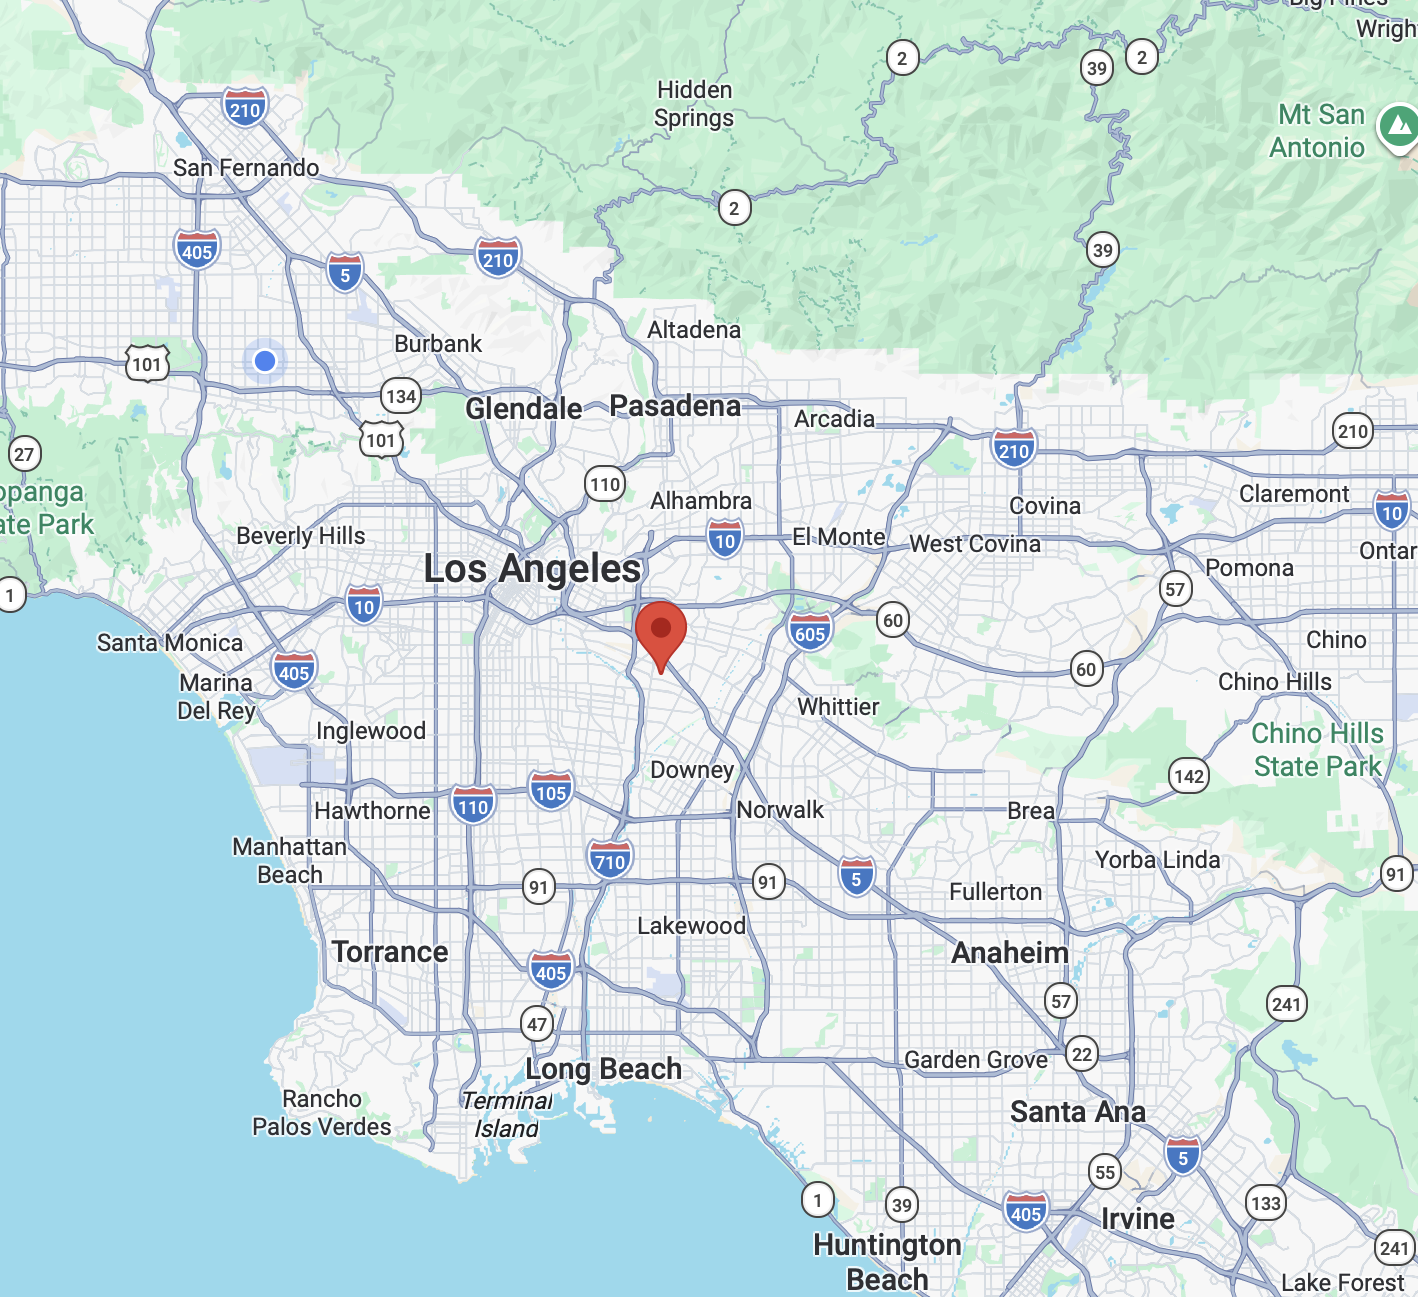
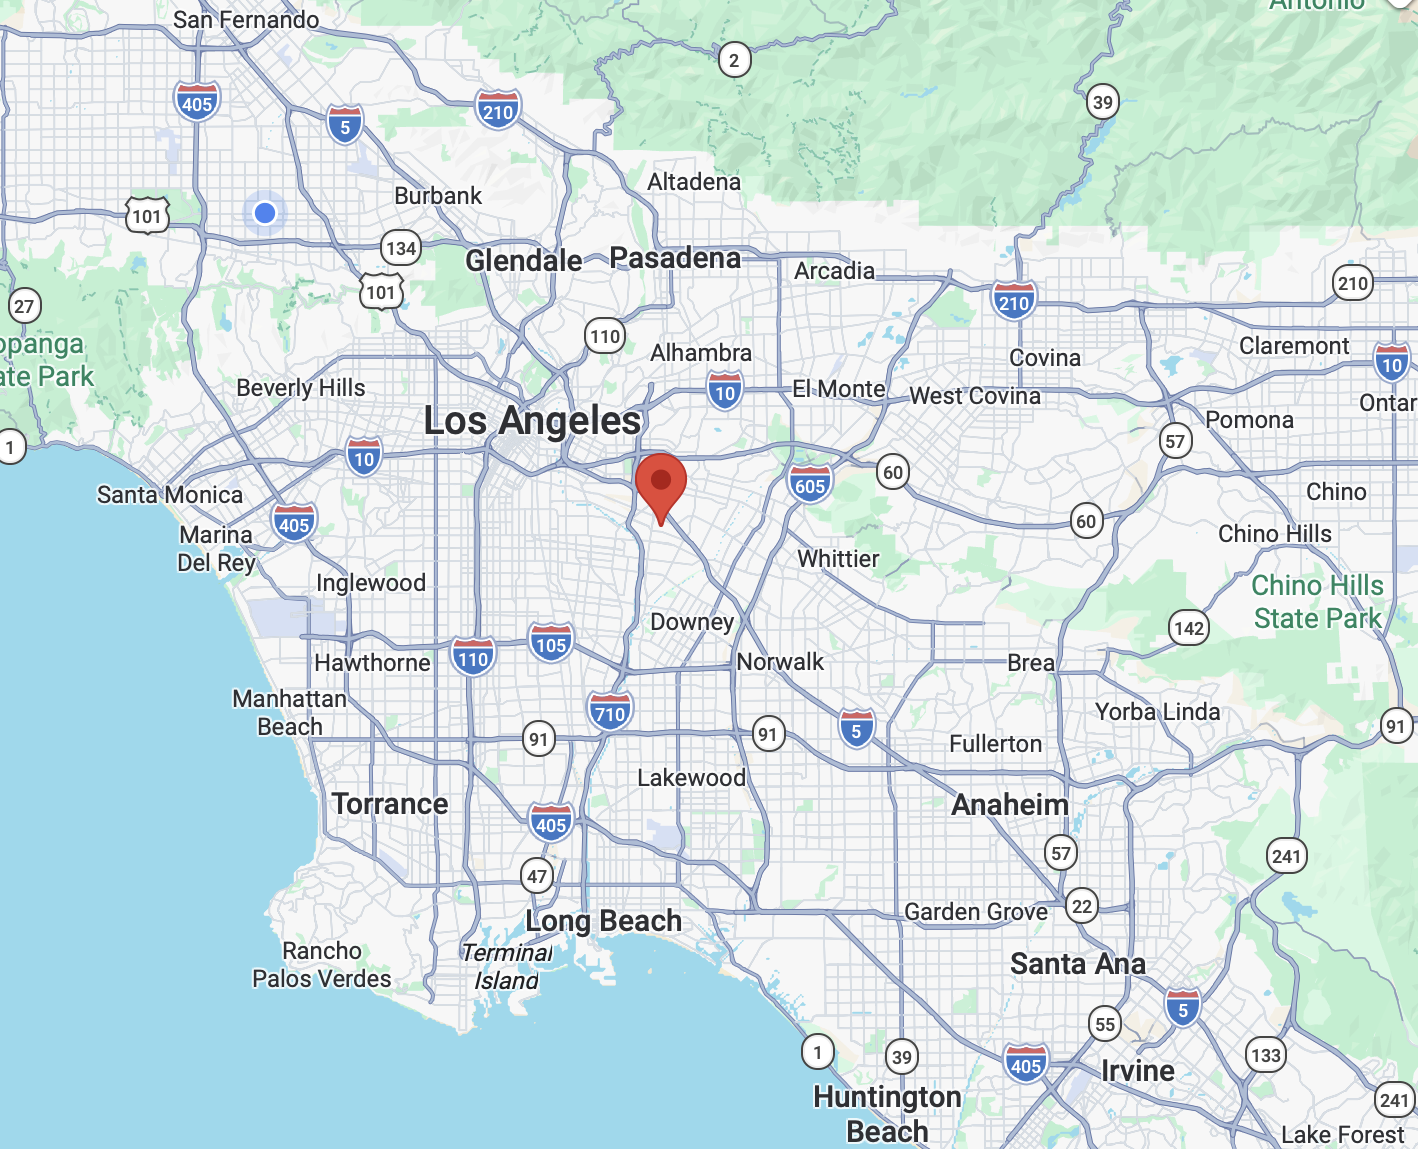
Карта: обрезан верх — кадр начинается над San Fernando

diff --git a/resources/views/home.blade.php b/resources/views/home.blade.php
@@ -21,7 +21,7 @@
       <!-- Map + text -->
       <div class="map-and-text">
         <div class="map">
-          <img src="/images/image.map.png?v=2" alt="Service area map" />
+          <img src="/images/image.map.png?v=3" alt="Service area map" />
         </div>
         <div class="text-blocks">
           <div class="text-block">Location: 📍 5800 Sheila St, Commerce, CA</div>
